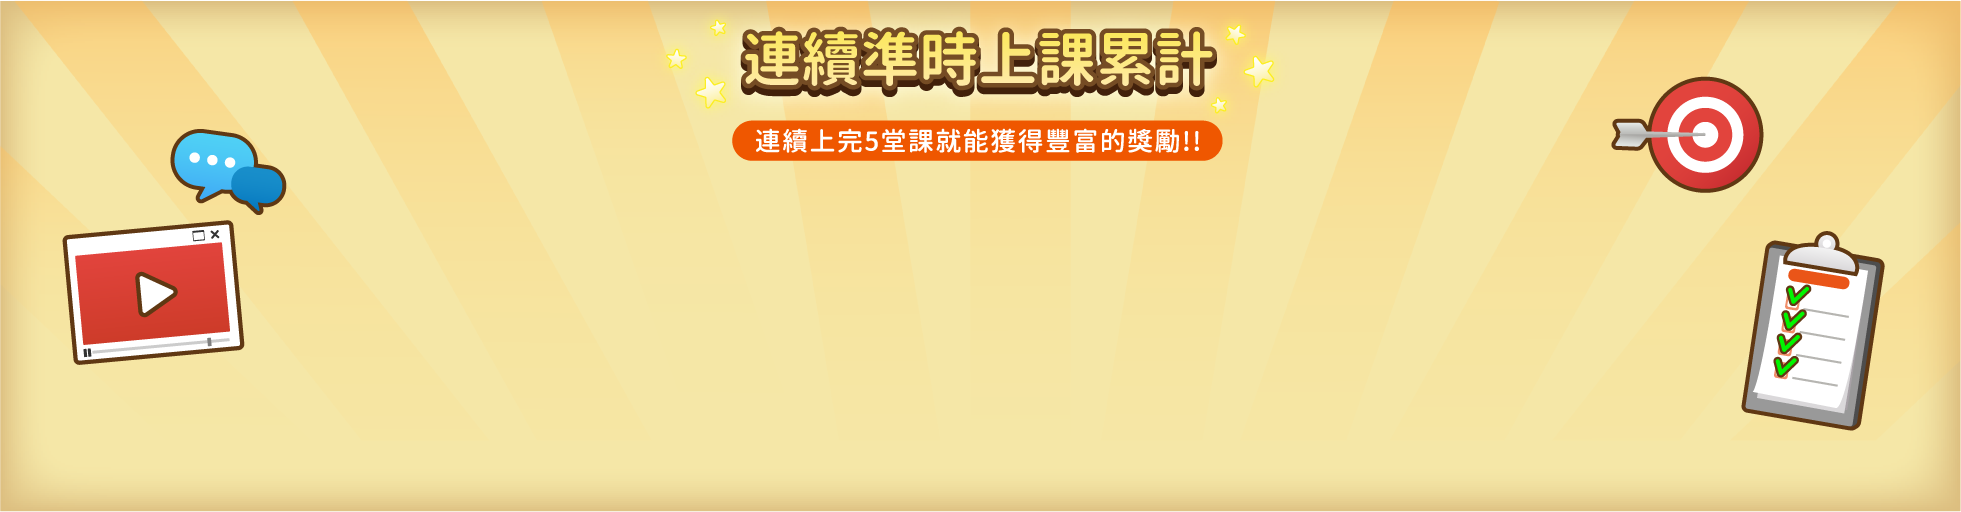
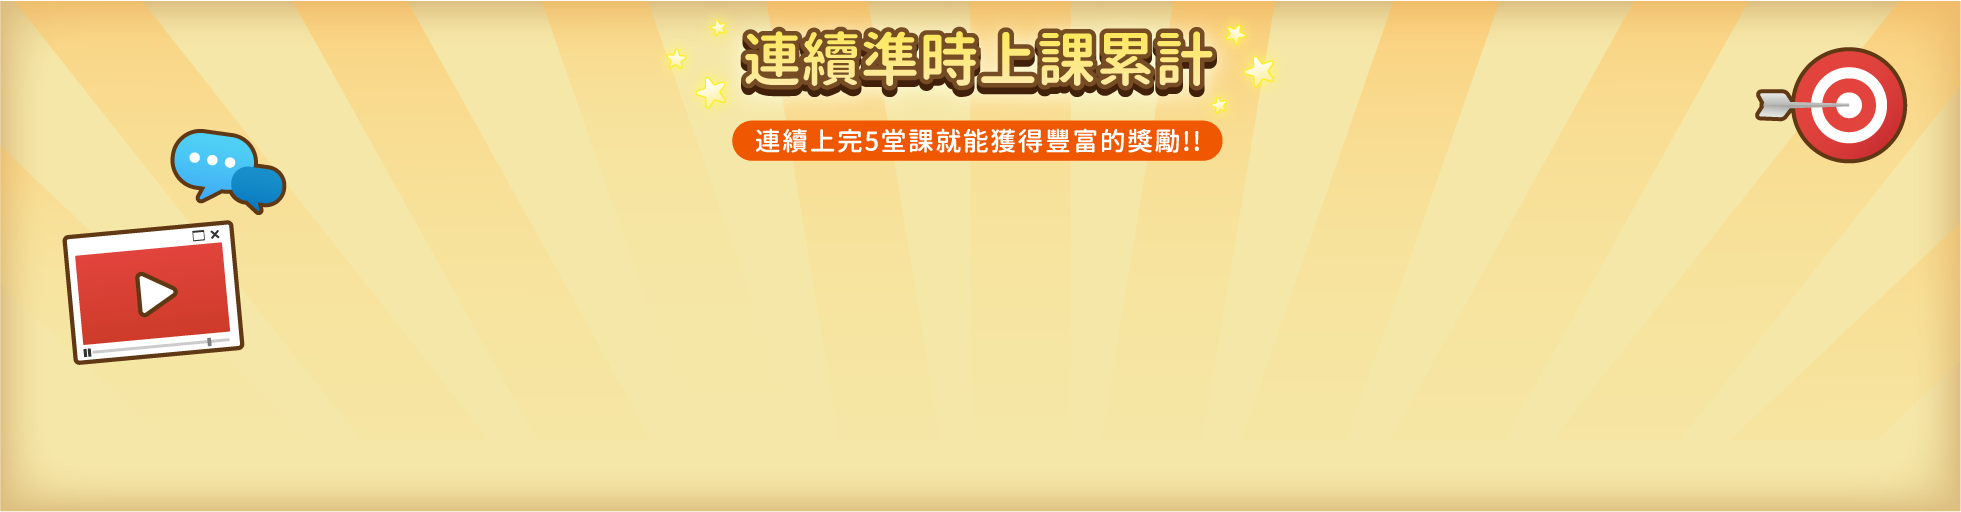
調整連續上課的按鈕

Changed region(s): [[0.8088, 0.0938, 0.9954, 0.375], [0.871, 0.4375, 0.9643, 0.8438]]

diff --git a/dist/index.html b/dist/index.html
@@ -24,28 +24,33 @@
       <div class="row-class">
         <!-- 連續一堂課-->
         <div class="class">
-          <div class="class-bg"><img src="./img/class1.png" alt=""><img class="stamp-finish animation-stamp" src="./img/stamp-finish.png" alt=""><img class="stamp-none" style="display:none" src="./img/stamp-none.png" alt=""></div>
-          <div class="class-btn"><img class="btn-get" src="./img/btn-get.png" alt=""><img class="btn-none" style="display:none" src="./img/btn-none.png" alt=""><img class="btn-already" style="display:none" src="./img/btn-already.png" alt=""></div>
+          <div class="class-bg"><img src="./img/class1.png" alt="">
+            <!-- class animation-stamp為蓋章的動畫--><img class="stamp-finish animation-stamp" src="./img/stamp-finish.png" alt=""><img class="stamp-none" style="display:none" src="./img/stamp-none.png" alt="">
+          </div>
         </div>
         <!-- 連續兩堂課-->
         <div class="class">
           <div class="class-bg"><img src="./img/class2.png" alt=""><img class="stamp-finish" src="./img/stamp-finish.png" alt=""><img class="stamp-none" style="display:none" src="./img/stamp-none.png" alt=""></div>
-          <div class="class-btn"><img class="btn-get" style="display:none" src="./img/btn-get.png" alt=""><img class="btn-none" style="display:none" src="./img/btn-none.png" alt=""><img class="btn-already" src="./img/btn-already.png" alt=""></div>
         </div>
         <!-- 連續三堂課-->
         <div class="class">
           <div class="class-bg"><img src="./img/class3.png" alt=""><img class="stamp-finish" style="display:none" src="./img/stamp-finish.png" alt=""><img class="stamp-none" src="./img/stamp-none.png" alt=""></div>
-          <div class="class-btn"><img class="btn-get" style="display:none" src="./img/btn-get.png" alt=""><img class="btn-none" src="./img/btn-none.png" alt=""><img class="btn-already" style="display:none" src="./img/btn-already.png" alt=""></div>
         </div>
         <!-- 連續四堂課-->
         <div class="class">
           <div class="class-bg"><img src="./img/class4.png" alt=""><img class="stamp-finish" style="display:none" src="./img/stamp-finish.png" alt=""><img class="stamp-none" src="./img/stamp-none.png" alt=""></div>
-          <div class="class-btn"><img class="btn-get" style="display:none" src="./img/btn-get.png" alt=""><img class="btn-none" src="./img/btn-none.png" alt=""><img class="btn-already" style="display:none" src="./img/btn-already.png" alt=""></div>
         </div>
         <!-- 連續五堂課-->
         <div class="class">
           <div class="class-bg"><img src="./img/class5.png" alt=""><img class="stamp-finish" style="display:none" src="./img/stamp-finish.png" alt=""><img class="stamp-none" src="./img/stamp-none.png" alt=""></div>
-          <div class="class-btn"><img class="btn-get" style="display:none" src="./img/btn-get.png" alt=""><img class="btn-none" src="./img/btn-none.png" alt=""><img class="btn-already" style="display:none" src="./img/btn-already.png" alt=""></div>
+        </div>
+      </div>
+      <div class="row-gift">
+        <div class="gift-bg"><img src="./img/cont-gift.png" alt=""></div>
+        <div class="class-btn">
+          <!-- 領取獎勵按鈕--><a class="btn-get" href=""><img src="./img/btn-get.png" alt=""></a>
+          <!-- 尚未達成按鈕-->
+          <div class="btn-none" style="display:none"><img src="./img/btn-none.png" alt=""></div>
         </div>
       </div>
     </div>

diff --git a/src/index.html b/src/index.html
@@ -24,28 +24,33 @@
       <div class="row-class">
         <!-- 連續一堂課-->
         <div class="class">
-          <div class="class-bg"><img src="./img/class1.png" alt=""><img class="stamp-finish animation-stamp" src="./img/stamp-finish.png" alt=""><img class="stamp-none" style="display:none" src="./img/stamp-none.png" alt=""></div>
-          <div class="class-btn"><img class="btn-get" src="./img/btn-get.png" alt=""><img class="btn-none" style="display:none" src="./img/btn-none.png" alt=""><img class="btn-already" style="display:none" src="./img/btn-already.png" alt=""></div>
+          <div class="class-bg"><img src="./img/class1.png" alt="">
+            <!-- class animation-stamp為蓋章的動畫--><img class="stamp-finish animation-stamp" src="./img/stamp-finish.png" alt=""><img class="stamp-none" style="display:none" src="./img/stamp-none.png" alt="">
+          </div>
         </div>
         <!-- 連續兩堂課-->
         <div class="class">
           <div class="class-bg"><img src="./img/class2.png" alt=""><img class="stamp-finish" src="./img/stamp-finish.png" alt=""><img class="stamp-none" style="display:none" src="./img/stamp-none.png" alt=""></div>
-          <div class="class-btn"><img class="btn-get" style="display:none" src="./img/btn-get.png" alt=""><img class="btn-none" style="display:none" src="./img/btn-none.png" alt=""><img class="btn-already" src="./img/btn-already.png" alt=""></div>
         </div>
         <!-- 連續三堂課-->
         <div class="class">
           <div class="class-bg"><img src="./img/class3.png" alt=""><img class="stamp-finish" style="display:none" src="./img/stamp-finish.png" alt=""><img class="stamp-none" src="./img/stamp-none.png" alt=""></div>
-          <div class="class-btn"><img class="btn-get" style="display:none" src="./img/btn-get.png" alt=""><img class="btn-none" src="./img/btn-none.png" alt=""><img class="btn-already" style="display:none" src="./img/btn-already.png" alt=""></div>
         </div>
         <!-- 連續四堂課-->
         <div class="class">
           <div class="class-bg"><img src="./img/class4.png" alt=""><img class="stamp-finish" style="display:none" src="./img/stamp-finish.png" alt=""><img class="stamp-none" src="./img/stamp-none.png" alt=""></div>
-          <div class="class-btn"><img class="btn-get" style="display:none" src="./img/btn-get.png" alt=""><img class="btn-none" src="./img/btn-none.png" alt=""><img class="btn-already" style="display:none" src="./img/btn-already.png" alt=""></div>
         </div>
         <!-- 連續五堂課-->
         <div class="class">
           <div class="class-bg"><img src="./img/class5.png" alt=""><img class="stamp-finish" style="display:none" src="./img/stamp-finish.png" alt=""><img class="stamp-none" src="./img/stamp-none.png" alt=""></div>
-          <div class="class-btn"><img class="btn-get" style="display:none" src="./img/btn-get.png" alt=""><img class="btn-none" src="./img/btn-none.png" alt=""><img class="btn-already" style="display:none" src="./img/btn-already.png" alt=""></div>
+        </div>
+      </div>
+      <div class="row-gift">
+        <div class="gift-bg"><img src="./img/cont-gift.png" alt=""></div>
+        <div class="class-btn">
+          <!-- 領取獎勵按鈕--><a class="btn-get" href=""><img src="./img/btn-get.png" alt=""></a>
+          <!-- 尚未達成按鈕-->
+          <div class="btn-none" style="display:none"><img src="./img/btn-none.png" alt=""></div>
         </div>
       </div>
     </div>

diff --git a/dist/css/style.css b/dist/css/style.css
@@ -43,6 +43,25 @@
   padding-top: 0; }
   .container-banner .banner {
     width: 100%; }
+  .container-banner .row-gift {
+    position: absolute;
+    top: 130px;
+    right: 85px; }
+    .container-banner .row-gift .gift-bg {
+      width: 110px; }
+      .container-banner .row-gift .gift-bg img {
+        width: 100%; }
+    .container-banner .row-gift .class-btn {
+      width: 90px;
+      padding: 5px 10px 0px; }
+      .container-banner .row-gift .class-btn img {
+        cursor: pointer;
+        width: 100%;
+        -webkit-transition: .3s;
+        transition: .3s; }
+    .container-banner .row-gift .btn-get:hover img {
+      -webkit-transform: scale(1.05);
+              transform: scale(1.05); }
   .container-banner .row-class {
     top: 150px;
     left: 50%;
@@ -71,15 +90,6 @@
     .container-banner .class-bg .animation-stamp {
       -webkit-animation: stamp 0.4s forwards;
               animation: stamp 0.4s forwards; }
-  .container-banner .class-btn {
-    padding: 5px 8px 0px; }
-    .container-banner .class-btn .btn-get {
-      cursor: pointer;
-      -webkit-transition: .3s;
-      transition: .3s; }
-      .container-banner .class-btn .btn-get:hover {
-        -webkit-transform: scale(1.05);
-                transform: scale(1.05); }
 
 @-webkit-keyframes stamp {
   0% {

diff --git a/src/css/style.css b/src/css/style.css
@@ -43,6 +43,25 @@
   padding-top: 0; }
   .container-banner .banner {
     width: 100%; }
+  .container-banner .row-gift {
+    position: absolute;
+    top: 130px;
+    right: 85px; }
+    .container-banner .row-gift .gift-bg {
+      width: 110px; }
+      .container-banner .row-gift .gift-bg img {
+        width: 100%; }
+    .container-banner .row-gift .class-btn {
+      width: 90px;
+      padding: 5px 10px 0px; }
+      .container-banner .row-gift .class-btn img {
+        cursor: pointer;
+        width: 100%;
+        -webkit-transition: .3s;
+        transition: .3s; }
+    .container-banner .row-gift .btn-get:hover img {
+      -webkit-transform: scale(1.05);
+              transform: scale(1.05); }
   .container-banner .row-class {
     top: 150px;
     left: 50%;
@@ -71,15 +90,6 @@
     .container-banner .class-bg .animation-stamp {
       -webkit-animation: stamp 0.4s forwards;
               animation: stamp 0.4s forwards; }
-  .container-banner .class-btn {
-    padding: 5px 8px 0px; }
-    .container-banner .class-btn .btn-get {
-      cursor: pointer;
-      -webkit-transition: .3s;
-      transition: .3s; }
-      .container-banner .class-btn .btn-get:hover {
-        -webkit-transform: scale(1.05);
-                transform: scale(1.05); }
 
 @-webkit-keyframes stamp {
   0% {

diff --git a/src/sass/style.sass b/src/sass/style.sass
@@ -44,6 +44,26 @@
     padding-top: 0
     .banner
         width: 100%
+
+    .row-gift
+        position: absolute
+        top: 130px
+        right: 85px
+        .gift-bg
+            width: 110px
+            img
+                width: 100%
+        .class-btn
+            width: 90px
+            padding: 5px 10px 0px
+            img
+                cursor: pointer
+                width: 100%
+                transition: .3s
+        .btn-get
+            &:hover
+                img
+                    transform: scale(1.05)
     .row-class
         top: 150px
         left: 50%
@@ -66,10 +86,7 @@
             width: 65px
         .animation-stamp
             animation: stamp 0.4s forwards
-    .class-btn
-        padding: 5px 8px 0px
-        .btn-get
-            +btn-hover
+    
 
 @keyframes stamp
     0%
